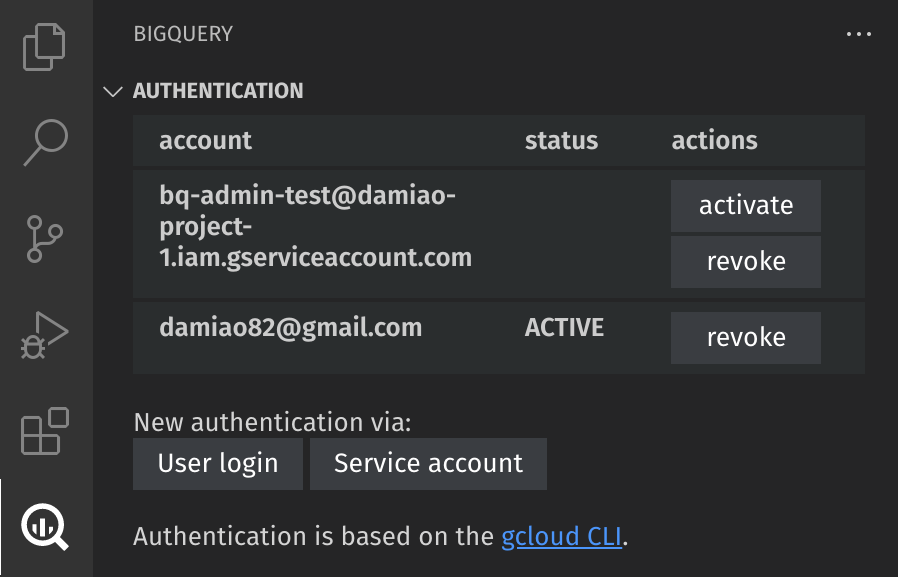
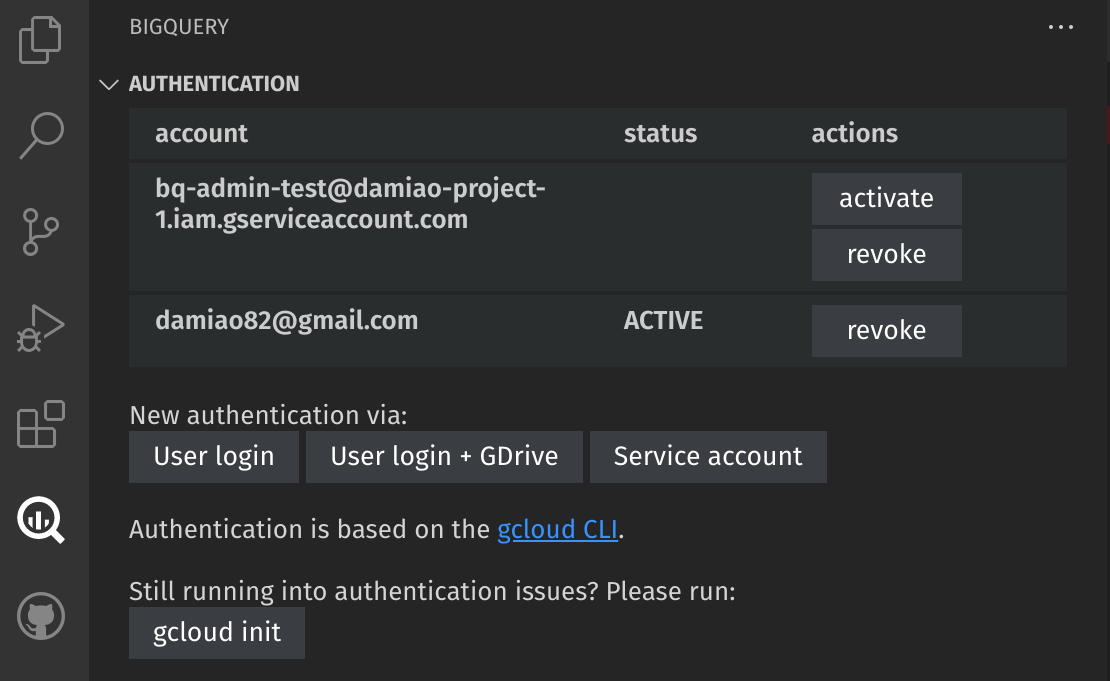
GCP project favorites and/or filter (#33)
* GCP project favorites and/or filter
Fixes #31

* GCP project favorites and/or filter
Fixes #31

* GCP project favorites and/or filter
Fixes #31

* update readme

* version update

diff --git a/src/activitybar/treeDataProvider.ts b/src/activitybar/treeDataProvider.ts
@@ -2,6 +2,8 @@ import * as vscode from 'vscode';
 import { BigqueryTreeItem, TreeItemType } from './treeItem';
 import { BigQuery } from '@google-cloud/bigquery';
 import { ProjectsClient } from '@google-cloud/resource-manager';
+import { Authentication } from '../services/authentication';
+import { SETTING_PINNED_PROJECTS } from '../extensionCommands';
 
 // const { google } = require('googleapis');
 // const vault = google.vault('v1');
@@ -67,7 +69,7 @@ export class BigQueryTreeDataProvider implements vscode.TreeDataProvider<Bigquer
                         if (routines.length > 0) {
                             this.routineTreeItems = this.deduplicate(projectId, datasetId, this.routineTreeItems, routines);
 
-                            const routinesTreeItem = new BigqueryTreeItem(TreeItemType.routine, projectId, datasetId, null, `Routines (${routines.length})`, "", vscode.TreeItemCollapsibleState.Collapsed);
+                            const routinesTreeItem = new BigqueryTreeItem(TreeItemType.routine, projectId, datasetId, null, `Routines (${routines.length})`, '', false, vscode.TreeItemCollapsibleState.Collapsed);
                             treeItems.push(routinesTreeItem);
                         }
 
@@ -75,7 +77,7 @@ export class BigQueryTreeDataProvider implements vscode.TreeDataProvider<Bigquer
                         if (models.length > 0) {
                             this.modelTreeItems = this.deduplicate(projectId, datasetId, this.modelTreeItems, models);
 
-                            const modelTreeItem = new BigqueryTreeItem(TreeItemType.model, projectId, datasetId, null, `Models (${models.length})`, "", vscode.TreeItemCollapsibleState.Collapsed);
+                            const modelTreeItem = new BigqueryTreeItem(TreeItemType.model, projectId, datasetId, null, `Models (${models.length})`, '', false, vscode.TreeItemCollapsibleState.Collapsed);
                             treeItems.push(modelTreeItem);
                         }
                     }
@@ -117,6 +119,8 @@ export class BigQueryTreeDataProvider implements vscode.TreeDataProvider<Bigquer
     private async getProjects() {
 
         const projectsClient = new ProjectsClient();
+
+        const defaultProjectIdPromise = Authentication.getDefaultProjectId();
         const projects = await projectsClient.searchProjectsAsync();
 
         let listProjects = [];
@@ -124,11 +128,46 @@ export class BigQueryTreeDataProvider implements vscode.TreeDataProvider<Bigquer
             listProjects.push(project);
         }
 
-        return listProjects
-            .filter(c => c.state === 'ACTIVE')
-            .map(c => {
-                const projectId = c.projectId ?? 'xxx';
-                return new BigqueryTreeItem(TreeItemType.project, projectId, null, null, projectId, '', vscode.TreeItemCollapsibleState.Collapsed);
+        const defaultProjectId = await defaultProjectIdPromise;
+
+        const pinnedProjects = vscode.workspace
+            .getConfiguration()
+            .get(SETTING_PINNED_PROJECTS) as string[] || []
+                .sort((a: string, b: string) => a.localeCompare(b));
+
+        const listProjectSorted =
+            listProjects
+                .filter(c => c.state === 'ACTIVE')
+                .map(c => c.projectId || 'xxx')
+                .sort((a, b) =>
+                    (
+                        pinnedProjects.indexOf(a) >= 0
+                        &&
+                        pinnedProjects.indexOf(b) >= 0
+                    ) ? a.localeCompare(b) : (
+                        pinnedProjects.indexOf(a) >= 0
+                        &&
+                        pinnedProjects.indexOf(b) < 0
+                    ) ? -10 : (
+                        pinnedProjects.indexOf(a) < 0
+                        &&
+                        pinnedProjects.indexOf(b) < 0
+                    ) ? a.localeCompare(b) : 0
+                )
+            ;
+
+        return listProjectSorted
+            .map(projectId => {
+                return new BigqueryTreeItem(
+                    TreeItemType.project,
+                    projectId,
+                    null,
+                    null,
+                    projectId,
+                    defaultProjectId === projectId ? 'DEFAULT' : '',
+                    pinnedProjects.indexOf(projectId) >= 0,
+                    vscode.TreeItemCollapsibleState.Collapsed
+                );
             });
 
     }
@@ -152,7 +191,7 @@ export class BigQueryTreeDataProvider implements vscode.TreeDataProvider<Bigquer
                         }
 
                         const datasetId = c.id ?? 'xxx';
-                        return new BigqueryTreeItem(treeItemType, projectId, datasetId, null, datasetId, "", vscode.TreeItemCollapsibleState.Collapsed);
+                        return new BigqueryTreeItem(treeItemType, projectId, datasetId, null, datasetId, '', false, vscode.TreeItemCollapsibleState.Collapsed);
 
                     });
             });
@@ -181,7 +220,7 @@ export class BigQueryTreeDataProvider implements vscode.TreeDataProvider<Bigquer
                         treeItemType = TreeItemType.tableView;
                     }
                 }
-                return new BigqueryTreeItem(treeItemType, projectId, datasetId, tableId, tableId, "", vscode.TreeItemCollapsibleState.None);
+                return new BigqueryTreeItem(treeItemType, projectId, datasetId, tableId, tableId, '', false, vscode.TreeItemCollapsibleState.None);
             });
 
     }
@@ -198,7 +237,7 @@ export class BigQueryTreeDataProvider implements vscode.TreeDataProvider<Bigquer
 
                 const routineId = c.id ?? 'xxx';
 
-                return new BigqueryTreeItem(TreeItemType.routine, projectId, datasetId, routineId, routineId, "", vscode.TreeItemCollapsibleState.None);
+                return new BigqueryTreeItem(TreeItemType.routine, projectId, datasetId, routineId, routineId, '', false, vscode.TreeItemCollapsibleState.None);
             });
 
     }
@@ -215,7 +254,7 @@ export class BigQueryTreeDataProvider implements vscode.TreeDataProvider<Bigquer
 
                 const modelId = c.id ?? 'xxx';
 
-                return new BigqueryTreeItem(TreeItemType.model, projectId, datasetId, modelId, modelId, "", vscode.TreeItemCollapsibleState.None);
+                return new BigqueryTreeItem(TreeItemType.model, projectId, datasetId, modelId, modelId, '', false, vscode.TreeItemCollapsibleState.None);
             });
 
     }
@@ -229,53 +268,5 @@ export class BigQueryTreeDataProvider implements vscode.TreeDataProvider<Bigquer
     refresh(): void {
         this._onDidChangeTreeData.fire();
     }
-
-    // private async getSavedQueries(projectId: string) {
-
-    //     const auth = new google.auth.GoogleAuth({
-    //         // Scopes can be specified either as an array or as a single, space-delimited string.
-    //         scopes: [
-    //             'https://www.googleapis.com/auth/ediscovery',
-    //             'https://www.googleapis.com/auth/ediscovery.readonly',
-    //         ],
-    //     });
-
-    //     debugger;
-
-    //     const authClient = await auth.getClient();
-    //     google.options({ auth: authClient });
-    //     // const { google } = require('googleapis');
-    //     // const vault = google.vault('v1');
-
-    //     // const res = await vault.matters.savedQueries.list({});
-    //     const res = await vault.matters.list({
-    //         // The ID of the matter to get the saved queries for.
-    //         // matterId: '',
-    //         // // The maximum number of saved queries to return.
-    //         // pageSize: 'placeholder-value',
-    //         // // The pagination token as returned in the previous response. An empty token means start from the beginning.
-    //         // pageToken: 'placeholder-value',
-    //     });
-    //     console.log(res.data);
-
-    //     // const v = new vault.vault_v1.Vault({});
-    //     // const x = await v.matters.list();
-
-    //     debugger;
-
-    //     // const bigqueryClient = new BigQuery({ projectId: projectId });
-
-    //     // const dataset = bigqueryClient.dataset(datasetId);
-    //     // const models = await dataset.getModels();
-
-    //     // return models[0]
-    //     //     .map(c => {
-
-    //     //         const modelId = c.id ?? 'xxx';
-
-    //     //         return new BigqueryTreeItem(TreeItemType.Model, projectId, datasetId, modelId, modelId, "", vscode.TreeItemCollapsibleState.None);
-    //     //     });
-
-    // }
 
 }

diff --git a/src/extensionCommands.ts b/src/extensionCommands.ts
@@ -20,6 +20,9 @@ export const COMMAND_AUTHENTICATION_REFRESH = "vscode-bigquery.authentication-re
 export const COMMAND_EXPLORER_REFRESH = "vscode-bigquery.explorer-refresh";
 export const COMMAND_VIEW_TABLE = "vscode-bigquery.view-table";
 export const COMMAND_VIEW_TABLE_SCHEMA = "vscode-bigquery.view-table-schema";
+export const COMMAND_SET_DEFAULT_PROJECT = "vscode-bigquery.set-default-project";
+export const COMMAND_PROJECT_PIN = "vscode-bigquery.project-pin";
+export const SETTING_PINNED_PROJECTS = "vscode-bigquery.pinned-projects";
 
 export const commandRunQuery = async function (...args: any[]) {
 
@@ -277,6 +280,47 @@ export const commandViewTableSchema = function (...args: any[]) {
 
 	reporter?.sendTelemetryEvent('commandViewTableSchema', {}, { elapsedMs: Date.now() - t1 });
 
+};
+
+export const commandSetDefaultProject = function (...args: any[]) {
+
+	resetBigQueryClient();
+
+	const item = args[0] as BigqueryTreeItem;
+
+	Authentication.setDefaultProjectId(item.projectId || 'xxx')
+		.then(result => {
+			vscode.commands.executeCommand(COMMAND_EXPLORER_REFRESH);
+
+			resetBigQueryClient();
+		});
+
+	reporter?.sendTelemetryEvent('setDefaultProjectId', {});
+};
+
+export const commandPinOrUnpinProject = function (...args: any[]) {
+
+	const item = args[0] as BigqueryTreeItem;
+	const projectId = item.projectId || 'xxx';
+
+	let pinnedProjects = vscode.workspace
+		.getConfiguration()
+		.get(SETTING_PINNED_PROJECTS) as string[] || [];
+
+	// let split = pinnedProjects.split(';');
+	if (pinnedProjects.indexOf(projectId) >= 0) {
+		pinnedProjects = pinnedProjects.filter(c => c && c !== projectId);
+	} else {
+		pinnedProjects.push(projectId);
+	}
+
+	vscode.workspace
+		.getConfiguration()
+		.update(SETTING_PINNED_PROJECTS, pinnedProjects);
+
+	vscode.commands.executeCommand(COMMAND_EXPLORER_REFRESH);
+
+	reporter?.sendTelemetryEvent('commandPinOrUnpinProject', {});
 };
 
 let bigQueryClient: BigQueryClient | null;

diff --git a/src/activitybar/treeItem.ts b/src/activitybar/treeItem.ts
@@ -26,12 +26,19 @@ export class BigqueryTreeItem extends vscode.TreeItem {
 
         public readonly label: string,
         private readonly version: string,
+        private readonly pinned: boolean,
         public readonly collapsibleState: vscode.TreeItemCollapsibleState,
         public readonly command?: vscode.Command
     ) {
         super(label, collapsibleState);
 
         switch (treeItemType) {
+            case TreeItemType.project:
+                if (pinned) {
+                    this.iconPath = bigqueryIcons.pinned;
+                }
+                this.contextValue = 'bq-gcp-project';
+                break;
             case TreeItemType.table:
                 this.iconPath = bigqueryIcons.table;
                 this.contextValue = 'bq-table';

diff --git a/src/extension.ts b/src/extension.ts
@@ -109,6 +109,20 @@ export function activate(context: vscode.ExtensionContext) {
 		)
 	);
 
+	context.subscriptions.push(
+		vscode.commands.registerCommand(
+			commands.COMMAND_SET_DEFAULT_PROJECT,
+			commands.commandSetDefaultProject
+		)
+	);
+
+	context.subscriptions.push(
+		vscode.commands.registerCommand(
+			commands.COMMAND_PROJECT_PIN,
+			commands.commandPinOrUnpinProject
+		)
+	);
+
 	// bigquery-authentication
 	context.subscriptions.push(
 		vscode.window.registerWebviewViewProvider(

diff --git a/src/services/authentication.ts b/src/services/authentication.ts
@@ -50,6 +50,10 @@ export class Authentication {
         return result.trim();
     }
 
+    public static async setDefaultProjectId(projectId: string): Promise<void> {
+        await this.runCommand(`gcloud config set project ${projectId}`, true);
+    }
+
     //https://cloud.google.com/sdk/gcloud/reference/auth/revoke
 
     private static runCommand(command: string, forceShow: boolean): Promise<string> {

diff --git a/src/bigqueryIcons.ts b/src/bigqueryIcons.ts
@@ -53,4 +53,9 @@ export class BigqueryIcons {
         dark: path.join(extensionUri.path, 'resources', 'dark', 'table.svg')
     };
 
+    public pinned: { light: string; dark: string } = {
+        light: path.join(extensionUri.path, 'resources', 'light', 'pinned.svg'),
+        dark: path.join(extensionUri.path, 'resources', 'dark', 'pinned.svg')
+    };
+
 }

diff --git a/README.md b/README.md
@@ -6,7 +6,7 @@ The authentication is taken cared by the [gcloud CLI](https://cloud.google.com/s
 
 <img src="documentation/authentication.png" alt="authentication" width="500"/>
 
-The two buttons "User login" and "Service account" reflect that two possible ways of authenticate the requests. Either user personal authentication is used, where the computer browser will be opened requesting authentication to Google Cloud. Or, a service account key file (json format) must be selected when requested by pressing the button "Service account".
+The three buttons "User login", "User login + GDrive" and "Service account" reflect that three possible ways of authenticate the requests. Either user personal authentication is used, where the computer browser will be opened requesting authentication to Google Cloud for the options "User login" and "User login + GDrive". Use the "GDrive" option to be able to browse and select tables based on Google Drive. Or, a service account key file (json format) must be selected when requested by pressing the button "Service account".
 
 When there's a valid account active and with the necessary permissions to interact with bigquery, this extension is ready to be used.
 
@@ -20,6 +20,22 @@ In the Bigquery side panel, sub panel "explorer", a tree of projects, datasets, 
 <img src="documentation/explorer_tree.png" alt="explorer tree" width="600"/>
 
 To refresh the explorer screen, can be done my executing the command `Bigquery: Explorer refresh`.
+
+Is possible to change the default project that queries will run against.
+
+<img src="documentation/project_set_default.png" alt="explorer tree" width="600"/>
+
+In order to influence the order of the different GCP projects on the list, is possible to pin one or more to stay on top of the list.
+
+<img src="documentation/pin_unpin_project.png" alt="explorer tree" width="600"/>
+
+By using the command show in the image above, the local settings will be changed. 
+
+To make changes at <b>user level</b>, the settings must be modified via the settings menu and change the associated file.
+
+<img src="documentation/settings_menu.png" alt="explorer tree" width="600"/>
+
+<img src="documentation/settings_file.png" alt="explorer tree" width="600"/>
 
 Interaction with views, functions and ML models is still not implemented. Will be available in future releases of this extension. At the moment, only tables have `View Table` and `View Schema` functionality. This is accessible by right-click on the table name on that tree. A single click on the table item open a visualization of the content of the selected table (`View Table` command).
 
@@ -35,6 +51,12 @@ To run only the query selected in the text, can be done by the key combination `
 After the query returns a response, the bottom panel of Visual Studio code will be made visible with the selected tab `Bigquery: Query results`. There, the query results are displayed with the usual pagination functionality. For convinience, is possible to open the same query results in another tab for side-by-side comparisons or further persistance. The results in the bottom panel will only represent the latest query execution.
 
 As visible in the image above, syntax highlight is very poor at the moment. Intellisence is not implemented at all. This will be the next improvements biggest area. 
+
+The query in the editor is evaluated in every change. If there's errors in the query, it will be underlined
+<img src="documentation/query_error.png" alt="query error" width="600"/>
+
+If the query is valid, the number of bytes that will be consumed will appear in the bottom bar
+<img src="documentation/query_size_evaluation.png" alt="query error" width="600"/>
 
 ## View table schema
 

diff --git a/util.md b/util.md
@@ -1,2 +1,4 @@
-Activating extension 'bstruct.vscode-bigquery' failed: ENOENT: no such file or directory, open '/home/damiao/.vscode/extensions/bstruct.vscode-bigquery-0.0.9/node_modules/@bstruct/bqsql-parser/bqsql_parser_bg.wasm'.
 
+#package extension
+
+vsce package
